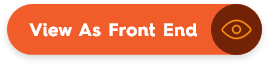
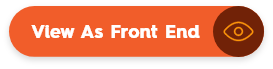
latest fixes

diff --git a/manager/includes/header_new.php b/manager/includes/header_new.php
@@ -24,15 +24,15 @@
     <header>
         <div class="container">
             <div class="header-inner">
-                <a class="logo" href="<?php echo ADMIN_URL?>"><img src="<?php echo ADMIN_URL?>/images/logo.png" alt="logo"></a>
+                <a class="logo" href="<?php echo ADMIN_URL?>"><img src="<?php echo ADMIN_URL?>/images/logo.svg" alt="logo"></a>
                 <a><img class="line3" src="<?php echo ADMIN_URL?>/images/line2.png" alt="line2"></a>
-                <a class="avo" href="<?php echo ADMIN_URL?>"><img src="<?php echo ADMIN_URL?>/images/avo.png" alt="avo"></a>
+                <a class="avo" href="<?php echo ADMIN_URL?>"><img src="<?php echo ADMIN_URL?>/images/avo.svg" alt="avo"></a>
                 <a href="<?php echo ADMIN_URL?>/view_as_front.php" class="clb">
-                    <img src="<?php echo ADMIN_URL?>/images/view-front-end-btn.png" onmouseover="this.src = '<?php echo ADMIN_URL?>/images/view-front-end-btn-hvr.png'" onmouseout="this.src = '<?php echo ADMIN_URL?>/images/view-front-end-btn.png'" alt="logout-submit-btn" />
+                    <img src="<?php echo ADMIN_URL?>/images/view-front-end-btn.svg" onmouseover="this.src = '<?php echo ADMIN_URL?>/images/view-front-end-btn-hvr.svg'" onmouseout="this.src = '<?php echo ADMIN_URL?>/images/view-front-end-btn.svg'" alt="logout-submit-btn" />
                 </a>
                 <a class="avo-mobile" href="<?php echo ADMIN_URL?>"><img src="<?php echo ADMIN_URL?>/images/avo-mobile.png" alt="avo"></a>
                 <a href="<?php echo ADMIN_URL?>/logout.php" class="clb">
-                    <img src="<?php echo ADMIN_URL?>/images/category-logout-btn.png" onmouseover="this.src = '<?php echo ADMIN_URL?>/images/category-logout-hvr-btn.png'" onmouseout="this.src = '<?php echo ADMIN_URL?>/images/category-logout-btn.png'" alt="logout-submit-btn" />
+                    <img src="<?php echo ADMIN_URL?>/images/category-logout-btn.svg" onmouseover="this.src = '<?php echo ADMIN_URL?>/images/category-logout-hvr-btn.svg'" onmouseout="this.src = '<?php echo ADMIN_URL?>/images/category-logout-btn.svg'" alt="logout-submit-btn" />
                 </a>
                 <a href="<?php echo ADMIN_URL?>/logout.php" class="clmb"><img src="<?php echo ADMIN_URL?>/images/category-logout-mobile-btn.png" alt=""></a>
             </div>

diff --git a/manager/vendors/index.php b/manager/vendors/index.php
@@ -83,7 +83,7 @@ session_write_close();
                         <h3>Sort</h3>
                     </div>
                     <div class="active-col">
-                        <h3>active</h3>
+                        <h3>Action</h3>
                     </div>
                 </div>
                 <?php
@@ -113,7 +113,18 @@ session_write_close();
                                 <?php echo $row['sort']?>
                             </div>
                             <div class="active-col">
+
                                 <div class="action-sec">
+                                    <?php if($row['active']==1){?>
+                                        <a onClick="return confirm('Are you sure you want to change the active status of this item?');" href="<?php echo ADMIN_URL?>/vendors/index.php?active=<?php echo $row['id']?>&cur=<?php echo (int)$row['active']?>&page=<?php echo $page?>">
+                                            <img src="<?php echo ADMIN_URL?>/images/on-btn.svg" alt=""/>
+                                        </a>
+                                    <?php }else{?>
+                                        <a onClick="return confirm('Are you sure you want to change the active status of this item?');" href="<?php echo ADMIN_URL?>/vendors/index.php?active=<?php echo $row['id']?>&cur=<?php echo (int)$row['active']?>&page=<?php echo $page?>">
+                                            <img src="<?php echo ADMIN_URL?>/images/off-btn.svg" alt=""/>
+                                        </a>
+                                    <?php }?>
+
                                     <a href="<?php echo ADMIN_URL?>/vendors/edit.php?id=<?php echo $row['id']?>">
                                         <img src="<?php echo ADMIN_URL?>/images/edit-btn.svg" alt=""/>
                                     </a>

diff --git a/header-new.php b/header-new.php
@@ -28,13 +28,13 @@ require( 'check_login.php' );
     <header>
         <div class="container">
             <div class="header-inner">
-                <a class="logo" href="<?php echo SITE_URL?>"><img src="<?php echo SITE_URL?>/images/logo.png" alt="logo"></a>
+                <a class="logo" href="<?php echo SITE_URL?>"><img src="<?php echo SITE_URL?>/images/logo.svg" alt="logo"></a>
                 <img class="line3" src="<?php echo SITE_URL?>/images/line2.png" alt="line2">
-                <a class="avo" href="<?php echo SITE_URL?>"><img src="<?php echo SITE_URL?>/images/avo.png" alt="avo"></a>
+                <a class="avo" href="<?php echo SITE_URL?>"><img src="<?php echo SITE_URL?>/images/avo.svg" alt="avo"></a>
                 <img class="line3" src="images/line2.png" alt="line2">
                 <a class="avo-mobile" href="<?php echo SITE_URL?>"><img src="<?php echo SITE_URL?>/images/avo-mobile.png" alt="avo"></a>
                 <a href="<?php echo SITE_URL?>/logout.php" class="clb">
-                    <img src="<?php echo SITE_URL?>/images/category-logout-btn.png" onmouseover="this.src='<?php echo SITE_URL?>/images/category-logout-hvr-btn.png'" onmouseout="this.src='<?php echo SITE_URL?>/images/category-logout-btn.png'" alt="logout-submit-btn" />
+                    <img src="<?php echo SITE_URL?>/images/category-logout-btn.svg" onmouseover="this.src='<?php echo SITE_URL?>/images/category-logout-hvr-btn.svg'" onmouseout="this.src='<?php echo SITE_URL?>/images/category-logout-btn.svg'" alt="logout-submit-btn" />
                 </a>
                 <a href="<?php echo SITE_URL?>/logout.php" class="clmb"><img src="<?php echo SITE_URL?>/images/category-logout-mobile-btn.png" alt=""></a>
             </div>

diff --git a/header-login-new.php b/header-login-new.php
@@ -13,9 +13,9 @@
 <header>
     <div class="container">
         <div class="header-inner">
-            <a class="logo" href="<?php echo SITE_URL?>"><img src="images/logo.png" alt="logo"></a>
+            <a class="logo" href="<?php echo SITE_URL?>"><img src="images/logo.svg" alt="logo"></a>
             <img class="line3" src="<?php echo SITE_URL?>/images/line2.png" alt="line2">
-            <a class="avo" href="<?php echo SITE_URL?>"><img src="<?php echo SITE_URL?>/images/avo.png" alt="avo"></a>
+            <a class="avo" href="<?php echo SITE_URL?>"><img src="<?php echo SITE_URL?>/images/avo.svg" alt="avo"></a>
             <a class="avo-mobile" href="<?php echo SITE_URL?>"><img src="<?php echo SITE_URL?>/images/avo-mobile.png" alt="avo"></a>
         </div>
         <img class="line1" src="<?php echo SITE_URL?>/images/line1.png" alt="line1">

diff --git a/manager/users/edit.php b/manager/users/edit.php
@@ -46,7 +46,7 @@ session_write_close();
     <div class="latest_activities hd-grid activity_log">
         <div class="container">
             <div class="heading_sec">
-                <h2><bold>Edit AN</bold> User</h2>
+                <h2><bold>Edit A</bold> User</h2>
             </div>
             <div class="add-new-entry-sec">
                 <button type="button" id="cancel" name="cancel" class="btn btn-primary back-btn" onclick="window.location.href = '<?php echo ADMIN_URL?>/users/index.php';">

diff --git a/manager/users/add.php b/manager/users/add.php
@@ -75,7 +75,7 @@ session_write_close();
     <div class="latest_activities hd-grid activity_log">
         <div class="container">
             <div class="heading_sec">
-                <h2><bold>Add AN</bold> User</h2>
+                <h2><bold>Add A</bold> User</h2>
             </div>
             <div class="add-new-entry-sec">
                 <button type="button" id="cancel" name="cancel" class="btn btn-primary back-btn" onclick="window.location.href = '<?php echo ADMIN_URL?>/users/index.php';">
